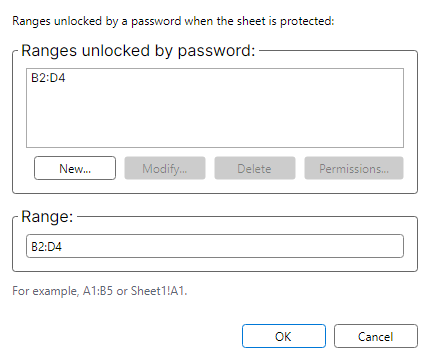
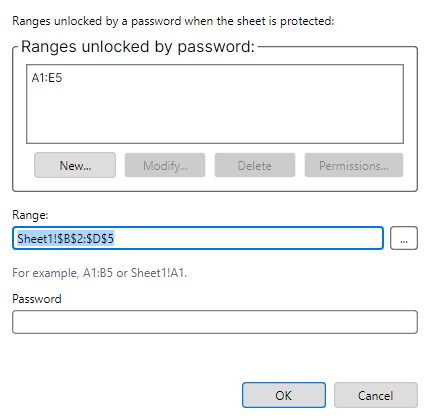
Align Allow Edit Ranges Avalonia parity evidence

diff --git a/src/FreeX.App.Avalonia/MainWindow.AllowEditRange.cs b/src/FreeX.App.Avalonia/MainWindow.AllowEditRange.cs
@@ -24,7 +24,7 @@ public sealed partial class MainWindow
     // ── Review ▸ Protect entry point ───────────────────────────────────────────
     private void AllowEditRanges() => _ = ShowAllowEditRangeDialogAsync();
 
-    private async Task ShowAllowEditRangeDialogAsync()
+    private async Task ShowAllowEditRangeDialogAsync(string? initialRangeText = null)
     {
         if (_isOpening || _isSaving || !TryCommitPendingFormulaEdit())
             return;
@@ -35,9 +35,9 @@ public sealed partial class MainWindow
         {
             Title = UiText.Get("AllowEditRange_Title"),
             Width = 430,
-            Height = 400,
+            Height = 420,
             MinWidth = 390,
-            MinHeight = 360,
+            MinHeight = 380,
             WindowStartupLocation = WindowStartupLocation.CenterOwner,
             ShowInTaskbar = false,
         };
@@ -49,7 +49,7 @@ public sealed partial class MainWindow
 
         var rangeBox = new TextBox
         {
-            Text = FormatRangeReference(_session.SelectedRange),
+            Text = initialRangeText ?? FormatRangeReference(_session.SelectedRange),
             MinWidth = 220,
         };
         ApplyDataOpsTextBoxChrome(rangeBox);
@@ -274,19 +274,25 @@ public sealed partial class MainWindow
         {
             Header = StripDisplayMnemonic(UiText.Get("AllowEditRange_ExistingRangesLabel")),
             Content = existingRangesGroupContent,
-            Margin = new Thickness(0, 4, 0, 8),
+            Margin = new Thickness(0, 0, 0, 10),
         };
 
-        // WPF: second GroupBox with "Range" header containing the cell-reference textbox.
-        var rangeGroup = new GroupBox
+        // WPF: the Range section is a bare label and editor. Keep the picker in the editor row for
+        // Avalonia interaction parity even though the current WPF capture does not show that button.
+        var rangeGroup = new StackPanel
         {
-            Header = StripDisplayMnemonic(UiText.Get("AllowEditRange_RangeLabel")),
-            Content = new Border
+            Spacing = 4,
+            Children =
             {
-                Padding = new Thickness(4),
-                Child = BuildDialogRangePickerRow(rangeBox, rangePicker),
+                new TextBlock
+                {
+                    Text = StripDisplayMnemonic(UiText.Get("AllowEditRange_RangeLabel")),
+                    FontSize = 12,
+                    FontFamily = FormulaBarFontFamily,
+                },
+                BuildDialogRangePickerRow(rangeBox, rangePicker),
             },
-            Margin = new Thickness(0, 0, 0, 6),
+            Margin = new Thickness(0, 0, 0, 10),
         };
 
         // Range-specific password label + box (WPF parity: AllowEditRangeDialog.cs's Protection_Password
@@ -311,24 +317,30 @@ public sealed partial class MainWindow
         var bottomRow = AvaloniaCompactDialogChrome.CreateActionRow([okButton, closeButton], new Thickness(0, 10, 0, 0));
         DockPanel.SetDock(bottomRow, Dock.Bottom);
 
+        var dialogBody = new StackPanel
+        {
+            Spacing = 4,
+            Children =
+            {
+                new TextBlock { Text = UiText.Get("AllowEditRange_Intro"), Foreground = HeaderForeground, TextWrapping = TextWrapping.Wrap, FontSize = 12, FontFamily = FormulaBarFontFamily, Margin = new Thickness(0, 0, 0, 4) },
+                existingRangesGroup,
+                rangeGroup,
+                new TextBlock { Text = UiText.Get("AllowEditRange_Example"), Foreground = SecondaryInk, TextWrapping = TextWrapping.Wrap, FontSize = 12, FontFamily = FormulaBarFontFamily },
+                rangePasswordPanel,
+                warningText,
+            },
+        };
+
         dialog.Content = new DockPanel
         {
             Margin = new Thickness(12),
             Children =
             {
                 bottomRow,
-                new StackPanel
+                new ScrollViewer
                 {
-                    Spacing = 4,
-                    Children =
-                    {
-                        new TextBlock { Text = UiText.Get("AllowEditRange_Intro"), Foreground = HeaderForeground, TextWrapping = TextWrapping.Wrap, FontSize = 12, FontFamily = FormulaBarFontFamily, Margin = new Thickness(0, 0, 0, 4) },
-                        existingRangesGroup,
-                        rangeGroup,
-                        new TextBlock { Text = UiText.Get("AllowEditRange_Example"), Foreground = SecondaryInk, TextWrapping = TextWrapping.Wrap, FontSize = 12, FontFamily = FormulaBarFontFamily },
-                        rangePasswordPanel,
-                        warningText,
-                    },
+                    VerticalScrollBarVisibility = global::Avalonia.Controls.Primitives.ScrollBarVisibility.Hidden,
+                    Content = dialogBody,
                 },
             },
         };

diff --git a/tests/FreeX.App.Avalonia.Tests/AllowEditRangeParitySourceTests.cs b/tests/FreeX.App.Avalonia.Tests/AllowEditRangeParitySourceTests.cs
@@ -1,0 +1,48 @@
+using FluentAssertions;
+
+namespace FreeX.App.Avalonia.Tests;
+
+public sealed class AllowEditRangeParitySourceTests
+{
+    [Fact]
+    public void ParityFixture_MatchesWpfSeedAndDefaultRange()
+    {
+        var source = File.ReadAllText(RepoFile("src", "FreeX.App.Avalonia", "MainWindow.ParityCapture.cs"));
+
+        source.Should().Contain("new CellAddress(sheetId, 1, 1)");
+        source.Should().Contain("new CellAddress(sheetId, 5, 5)");
+        source.Should().Contain("new AllowEditRangeCommand(sheetId, existingRange)");
+        source.Should().Contain("new CellAddress(sheetId, 2, 2)");
+        source.Should().Contain("new CellAddress(sheetId, 5, 4)");
+        source.Should().Contain("_session.SelectRange(new GridRange(");
+    }
+
+    [Fact]
+    public void DialogVisualFlow_KeepsPickerPasswordAndWpfSizing()
+    {
+        var source = File.ReadAllText(RepoFile("src", "FreeX.App.Avalonia", "MainWindow.AllowEditRange.cs"));
+
+        source.Should().Contain("Width = 430");
+        source.Should().Contain("Height = 420");
+        source.Should().Contain("CreateDialogRangePickerButton(");
+        source.Should().Contain("initialRangeText ?? FormatRangeReference(_session.SelectedRange)");
+        source.Should().Contain("AllowEditRangePasswordBox");
+        source.Should().Contain("new StackPanel");
+        source.Should().Contain("VerticalScrollBarVisibility = global::Avalonia.Controls.Primitives.ScrollBarVisibility.Hidden");
+        source.Should().Contain("existingRangesGroup");
+        source.Should().Contain("rangeGroup");
+        source.Should().Contain("bottomRow");
+    }
+
+    private static string RepoFile(params string[] parts)
+    {
+        var directory = new DirectoryInfo(AppContext.BaseDirectory);
+        while (directory is not null && !File.Exists(Path.Combine(directory.FullName, "FreeX.slnx")))
+            directory = directory.Parent;
+
+        if (directory is null)
+            throw new DirectoryNotFoundException("Could not find repository root containing FreeX.slnx.");
+
+        return Path.Combine(new[] { directory.FullName }.Concat(parts).ToArray());
+    }
+}

diff --git a/src/FreeX.App.Avalonia/MainWindow.ParityCapture.cs b/src/FreeX.App.Avalonia/MainWindow.ParityCapture.cs
@@ -1939,21 +1939,23 @@ public sealed partial class MainWindow
     {
         var sheetId = _session.ActiveSheet.Id;
         var previousSelection = _session.SelectedRange;
-        var range = new GridRange(
-            new CellAddress(sheetId, 2, 2),
-            new CellAddress(sheetId, 4, 4));
-        if (!_session.ActiveSheet.AllowEditRanges.Contains(range))
+        var existingRange = new GridRange(
+            new CellAddress(sheetId, 1, 1),
+            new CellAddress(sheetId, 5, 5));
+        if (!_session.ActiveSheet.AllowEditRanges.Contains(existingRange))
         {
-            _session.ExecuteReviewCommand(new AllowEditRangeCommand(sheetId, range));
+            _session.ExecuteReviewCommand(new AllowEditRangeCommand(sheetId, existingRange));
             RefreshShell(_statusText.Text ?? "Ready");
         }
 
-        _session.SelectRange(range);
+        _session.SelectRange(new GridRange(
+            new CellAddress(sheetId, 2, 2),
+            new CellAddress(sheetId, 5, 4)));
         RefreshShell(_statusText.Text ?? "Ready");
 
         try
         {
-            await ShowAllowEditRangeDialogAsync();
+            await ShowAllowEditRangeDialogAsync("Sheet1!$B$2:$D$5");
         }
         finally
         {

diff --git a/docs/parity/avalonia-wpf-cross-app-dashboard.md b/docs/parity/avalonia-wpf-cross-app-dashboard.md
@@ -8,7 +8,7 @@ Generated by `tools/Generate-CrossAppParityDashboard.ps1` from existing generate
 
 | App | Primary evidence | Current generated state | Next slice |
 |---|---|---|---|
-| FreeX | Functional matrix, classifier, dialog inventory, dialog visual evidence, command surface | 531 functional commands; 473 command inventory parity; 0 Avalonia-missing; 0 real classified binding gaps; 48 catalog-backed pseudo-gallery rows (34 conditional-format, 10 font/border, 4 accounting-symbol); 57/57 dialog routes captured on WPF and Avalonia; 93 paired screenshot surface ids, 0 Avalonia-only ids, 0 WPF-only ids; 0 scale-aware dimension mismatches; 0 unresolved high-delta visual review candidates at triage score >= 0.4 (highest 0.378454); 32 raw PNG pixel dimension mismatches, of which 32 normalize by capture DPI. These are coverage/triage metrics, not a visual-parity claim. | Command/dialog route coverage is complete for the generated inputs: all 48 pseudo-gallery rows are catalog-backed in classifier evidence (34 conditional-format rows over 38 runtime catalog items, 10 font/border rows, and 4 accounting-symbol rows), and dialog screenshot evidence has 93 paired WPF/Avalonia manifest surface ids with 0 Avalonia-only ids. This is coverage and size-comparability evidence, not visual parity. The paired screenshots retain 0 unresolved high-delta visual review candidates at triage score >= 0.4 (highest 0.378454); keep those candidates separate from 0 scale-aware dimension mismatch rows and 32 raw PNG pixel dimension mismatches. |
+| FreeX | Functional matrix, classifier, dialog inventory, dialog visual evidence, command surface | 531 functional commands; 473 command inventory parity; 0 Avalonia-missing; 0 real classified binding gaps; 48 catalog-backed pseudo-gallery rows (34 conditional-format, 10 font/border, 4 accounting-symbol); 57/57 dialog routes captured on WPF and Avalonia; 93 paired screenshot surface ids, 0 Avalonia-only ids, 0 WPF-only ids; 0 scale-aware dimension mismatches; 0 unresolved high-delta visual review candidates at triage score >= 0.4 (highest 0.378454); 31 raw PNG pixel dimension mismatches, of which 31 normalize by capture DPI. These are coverage/triage metrics, not a visual-parity claim. | Command/dialog route coverage is complete for the generated inputs: all 48 pseudo-gallery rows are catalog-backed in classifier evidence (34 conditional-format rows over 38 runtime catalog items, 10 font/border rows, and 4 accounting-symbol rows), and dialog screenshot evidence has 93 paired WPF/Avalonia manifest surface ids with 0 Avalonia-only ids. This is coverage and size-comparability evidence, not visual parity. The paired screenshots retain 0 unresolved high-delta visual review candidates at triage score >= 0.4 (highest 0.378454); keep those candidates separate from 0 scale-aware dimension mismatch rows and 31 raw PNG pixel dimension mismatches. |
 | FreeW | Generated command inventory | 870 commands; 451 shared-profile; 0 actionable WPF-missing; 0 actionable Avalonia-missing; 371 profile-shape-only; 43 command-id aliases; 5 platform-only; 0 deferred | Backstage print/export, WordArt/watermark, table/page-composition, shape/object, SmartArt polygon, and chart visual proof now have paired WPF/Avalonia renderer contracts plus no-Word real-capture smoke runs; chart proof also validates shared chart data signatures across hosts. All-up no-Word runner fallback drift is classified as runner evidence hygiene, and the standalone no-Word runner now writes a post-summary readiness manifest with comparable scenario IDs, candidate Word PNG baseline paths, remaining blocker IDs, and an explicit no-authoritative-Word-PNG-parity claim. Next FreeW evidence slices are the same runs with real Word PNG baselines on a Word-capable host and broader Word-authoritative drawing/object/chart/table comparisons. |
 | FreeP | Generated command/evidence inventory | 291 commands; 289 shared-profile; 0 actionable WPF-missing; 0 actionable Avalonia-missing; 2 platform-only; 91 workflow evidence rows | Layout picker, table picker, rich inline table/text editing, shared visible list galleries, picture-bullet import/rendering plus picker/media authoring, slide-pane reorder, bottom New Slide, notes-page preview/PDF rendering, fixed-layout PDF connector, image, triangle-arrowhead, rotation, ellipse, picture-frame/crop/alpha/color-effect, shape-opacity export, and PDF visual-baseline readiness with WPF/Avalonia page-raster artifact patterns plus paired diff-report targets, export/backstage package-handoff, presenter recording backend contracts plus capture-adapter readiness and paired backend injection, captured PPTX media and generated WebVTT caption artifact authoring, focused PowerPoint-native caption package retention including external caption relationship metadata, native media/caption sidecar package depth, and caption relationship-id collision remapping, shared chart number/date label rendering plus edge/mixed manual-layout bounds, surface grid plus projected contour/wireframe/3-D surface geometry plus 3-D pie lower-depth rendering, stock OHLC capture-readiness metadata, and PowerPoint/WPF/Avalonia chart baseline capture readiness, SmartArt basic hierarchy plus vertical bullet list plus basic cycle plus radial cycle plus gear cycle plus text cycle plus basic, continuous block, segmented, chevron, alternating, funnel, circle, and arrow-ribbon process plus basic block list plus vertical box list plus stacked list plus basic pyramid plus bounded pictureCaptionList live layout plus basic/radial/stacked Venn and target-list relationship layouts plus shared outline reorder/promote/demote editing, data-part authoring, text-pane/cache-regeneration authoring, and matching thin WPF/Avalonia text-pane host controls with bounded keyboard routes, header/footer placeholder creation plus inherited layout/master geometry, title-slide suppression, fixed/auto date options, shared OMML fraction-type variants, matrix spacing/base alignment, delimiter grow semantics, accent/bar render-plan coverage, manual line breaks, boxed equation-array alignment points, transparent phantom spacing classes, pre-sub/superscript layout, matrix empty-cell placeholder handling, and group-character vertical justification, ink execution with repeated custom-show route retention, modern comments/review with shared mention candidate and insertion planning, accessibility/proofing workflow depth, animation-pane row/playback workflow evidence, paired real Windows microphone narration handoff, paired Windows camera handoff readiness, paired default no-COM camera handoff/package-target readiness without encoded-payload or PowerPoint-baseline claims, deterministic encoded camera media payload artifacts through host-specific PPTX package paths, and paired OS-backed unavailable-hardware/no-device recording evidence now have WPF/Avalonia no-COM evidence paths. Continue workflow-depth slices in live capture on real microphone/camera hardware, actual local default no-COM camera video encoding that produces non-empty mp4 payloads, calibrated chart-family acceptance thresholds and remaining type-specific decisions beyond the current PowerPoint baseline-depth/type/label captures, broader SmartArt layout families, remaining OMML constructs/alignment semantics and PowerPoint-authoritative math visual-baseline coverage, broader real-deck PowerPoint-native media/caption baselines, actual PowerPoint PDF/PNG capture and calibrated PDF visual diffs on a COM-capable host, and PowerPoint-authoritative animation-pane visual/playback baselines. |
 

diff --git a/docs/parity/dialog-visual-evidence-summary.md b/docs/parity/dialog-visual-evidence-summary.md
@@ -32,8 +32,8 @@ Sources:
 | Avalonia-manifest-only screenshot surface ids needing WPF manifest pair | 0 |
 | Nonblank PNG check failures | 0 |
 | Paired dimension mismatches (scale-aware logical units) | 0 |
-| Raw PNG pixel dimension mismatches | 32 |
-| Raw PNG mismatches normalized by capture DPI | 32 |
+| Raw PNG pixel dimension mismatches | 31 |
+| Raw PNG mismatches normalized by capture DPI | 31 |
 | Paired expected-size evidence mismatches | 0 |
 | Stale promoted expected-size evidence | 0 |
 | Policy-accepted native/control differences | 0 |
@@ -63,7 +63,6 @@ Outliers are ranked by a deterministic triage score: normalized 32x32 ARGB sampl
 | Surface id | WPF logical size | Avalonia logical size | Raw PNG sizes | Bucket | Evidence flag | Score | Sample delta | Luma delta | Non-bg delta |
 | --- | ---: | ---: | --- | --- | --- | ---: | ---: | ---: | ---: |
 | dialog.PrintPreview | 1120x700 | 1120x700 | 1120x700 px @ 96 DPI vs 1120x700 px @ 96 DPI |  |  | 0.378 | 0.126 | 0.061 | 0.191 |
-| dialog.AllowEditRanges | 430x360 | 430x360 | 645x540 px @ 144 DPI vs 430x360 px @ 96 DPI |  |  | 0.187 | 0.039 | 0.002 | 0.145 |
 | dialog.FormatCells.Border | 620x597 | 620x597 | 620x597 px @ 96 DPI vs 620x597 px @ 96 DPI |  |  | 0.186 | 0.048 | 0.025 | 0.112 |
 | dialog.ConditionalFormatNewRule | 634x334 | 634x334 | 634x334 px @ 96 DPI vs 634x334 px @ 96 DPI |  |  | 0.176 | 0.053 | 0.014 | 0.109 |
 | dialog.Subtotal | 380x390 | 380x390 | 570x585 px @ 144 DPI vs 380x390 px @ 96 DPI |  |  | 0.166 | 0.032 | 0.015 | 0.119 |
@@ -72,6 +71,7 @@ Outliers are ranked by a deterministic triage score: normalized 32x32 ARGB sampl
 | dialog.PageSetup.HeaderFooter | 600x560 | 600x560 | 600x560 px @ 96 DPI vs 600x560 px @ 96 DPI |  |  | 0.127 | 0.040 | 0.012 | 0.076 |
 | dialog.Consolidate | 380x420 | 380x420 | 570x630 px @ 144 DPI vs 380x420 px @ 96 DPI |  |  | 0.126 | 0.032 | 0.011 | 0.083 |
 | dialog.PivotTableOptions.Data | 520x500 | 520x500 | 520x500 px @ 96 DPI vs 520x500 px @ 96 DPI |  |  | 0.125 | 0.035 | 0.015 | 0.074 |
+| dialog.Options.Proofing | 744x521 | 744x521 | 744x521 px @ 96 DPI vs 744x521 px @ 96 DPI |  |  | 0.124 | 0.023 | 0.012 | 0.090 |
 
 ## Scale-Aware Dimension Mismatch Details
 
@@ -93,7 +93,7 @@ These rows have a DPI-normalized checked-in PNG size that disagrees with the dia
 | dialog.AccessibilityChecker | dialog.AccessibilityChecker.png | 360x520 | 360x520 px @ 96 DPI | True | dialog.AccessibilityChecker.png | 360x520 | 360x520 px @ 96 DPI | True | True | 0.099 |
 | dialog.AddWatch | dialog.AddWatch.png | 360x170 | 540x255 px @ 144 DPI | True | dialog.AddWatch.png | 360x170 | 360x170 px @ 96 DPI | True | True | 0.088 |
 | dialog.AdvancedFilter | dialog.AdvancedFilter.png | 420x340 | 630x510 px @ 144 DPI | True | dialog.AdvancedFilter.png | 420x340 | 420x340 px @ 96 DPI | True | True | 0.057 |
-| dialog.AllowEditRanges | dialog.AllowEditRanges.png | 430x360 | 645x540 px @ 144 DPI | True | dialog.AllowEditRanges.png | 430x360 | 430x360 px @ 96 DPI | True | True | 0.187 |
+| dialog.AllowEditRanges | dialog.AllowEditRanges.png | 430x420 | 430x420 px @ 96 DPI | True | dialog.AllowEditRanges.png | 430x420 | 430x420 px @ 96 DPI | True | True | 0.079 |
 | dialog.AutoFilter | dialog.AutoFilter.png | 312x436.689 | 468x655 px @ 144 DPI | True | dialog.AutoFilter.png | 312x437 | 312x437 px @ 96 DPI | True | True | 0.054 |
 | dialog.ChangeChartType | dialog.ChangeChartType.png | 640x390 | 960x585 px @ 144 DPI | True | dialog.ChangeChartType.png | 640x390 | 640x390 px @ 96 DPI | True | True | 0.070 |
 | dialog.ConditionalFormatManage | dialog.ConditionalFormatManage.png | 560x420 | 840x630 px @ 144 DPI | True | dialog.ConditionalFormatManage.png | 560x420 | 560x420 px @ 96 DPI | True | True | 0.074 |
